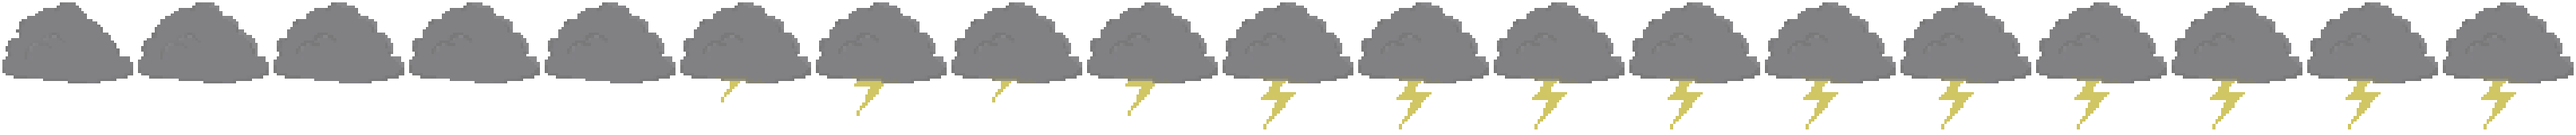
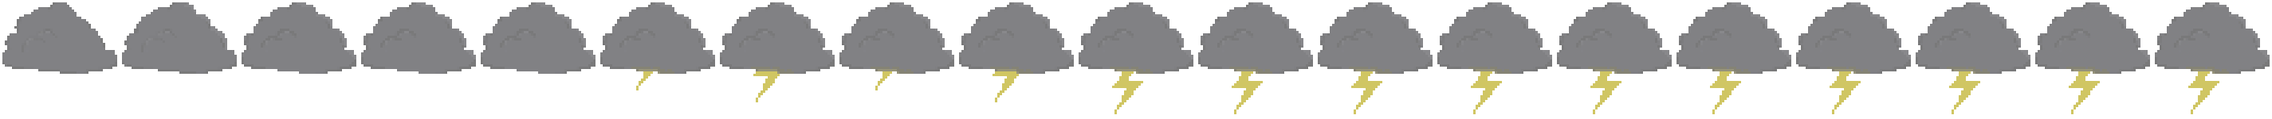
Animación win corregida, Skins win, loose y fly implementadas, nubes mejoradas y actualizadas, gavilán cambio de posición

diff --git a/core/src/com/mygdx/menudemo/level.java b/core/src/com/mygdx/menudemo/level.java
@@ -104,7 +104,6 @@ public class level extends ScreenAdapter {
 
     private Rectangle speedBarRectangle;
     private float speedBarChunkSize = DEFAULT_CHUNCK_SIZE;
-    private Stage stageWin;
     private Stage stageGameOver;
     private Texture gameOverPanelTexture;
     private Texture yesButtonTexture;
@@ -158,7 +157,7 @@ public class level extends ScreenAdapter {
     private TextureRegion winningKiiw;
     private TextureRegion loosingKiiw;
     private float winingKiiwX = WORLD_WIDTH/4;
-    private float winingKiiwY = WORLD_HEIGHT/2;
+    private float winingKiiwY;
     private Animation loosingAnimation;
     private float looseKiiwX = 20;
     private boolean finish = false;
@@ -211,9 +210,35 @@ public class level extends ScreenAdapter {
         if (LEVEL == 4){
             bgImagesNumber = 3;
             bossLevel = true;
-            kiiwTexture = menuDemo.getAssetManager().get("level4/FlyingKiwi.png");
-            kiiwWinningTexture = menuDemo.getAssetManager().get("defaultLevels/WinningKiwi.png");
-            kiiwLoosingTexture = menuDemo.getAssetManager().get("defaultLevels/LosingKiwi.png");
+            if(skin.compareTo("default") == 0){
+                kiiwTexture = menuDemo.getAssetManager().get("level4/FlyingKiwi.png");
+                kiiwWinningTexture = menuDemo.getAssetManager().get("defaultLevels/WinningKiwi.png");
+                kiiwLoosingTexture = menuDemo.getAssetManager().get("defaultLevels/LosingKiwi.png");
+            }else if(skin.compareTo("party") == 0){
+                kiiwTexture = menuDemo.getAssetManager().get("level4/FlyingPartyHatKiwi.png");
+                kiiwWinningTexture = menuDemo.getAssetManager().get("defaultLevels/WinningPartyHatKiwi.png");
+                kiiwLoosingTexture = menuDemo.getAssetManager().get("defaultLevels/LosingPartyHatKiwi.png");
+            }else if(skin.compareTo("hat") == 0){
+                kiiwTexture = menuDemo.getAssetManager().get("level4/FlyingTopHatKiwi.png");
+                kiiwWinningTexture = menuDemo.getAssetManager().get("defaultLevels/WinningTopHatKiwi.png");
+                kiiwLoosingTexture = menuDemo.getAssetManager().get("defaultLevels/LosingTopHatKiwi.png");
+            }else if(skin.compareTo("tie") == 0){
+                kiiwTexture = menuDemo.getAssetManager().get("level4/FlyingTieKiwi.png");
+                kiiwWinningTexture = menuDemo.getAssetManager().get("defaultLevels/WinningTieKiwi.png");
+                kiiwLoosingTexture = menuDemo.getAssetManager().get("defaultLevels/LosingTieKiwi.png");
+            }else if(skin.compareTo("crown") == 0){
+                kiiwTexture = menuDemo.getAssetManager().get("level4/FlyingCrownKiwi.png");
+                kiiwWinningTexture = menuDemo.getAssetManager().get("defaultLevels/WinningCrownKiwi.png");
+                kiiwLoosingTexture = menuDemo.getAssetManager().get("defaultLevels/LosingCrownKiwi.png");
+            }else if(skin.compareTo("hulk") == 0){
+                kiiwTexture = menuDemo.getAssetManager().get("level4/FlyingHulkKiwi.png");
+                kiiwWinningTexture = menuDemo.getAssetManager().get("defaultLevels/WinningHulkKiwi.png");
+                kiiwLoosingTexture = menuDemo.getAssetManager().get("defaultLevels/LosingHulkKiwi.png");
+            }else if(skin.compareTo("ricardo") == 0){
+                kiiwTexture = menuDemo.getAssetManager().get("level4/FlyingDancingKiwi.png");
+                kiiwWinningTexture = menuDemo.getAssetManager().get("defaultLevels/WinningDancingKiwi.png");
+                kiiwLoosingTexture = menuDemo.getAssetManager().get("defaultLevels/LosingDancingKiwi.png");
+            }
             hawk = new Hawk(hawkTexture);
             actualSpeed = 15;
             //hawk.setPosition(20, WORLD_HEIGHT/2);
@@ -225,28 +250,28 @@ public class level extends ScreenAdapter {
                 kiiwLoosingTexture = menuDemo.getAssetManager().get("defaultLevels/LosingKiwi.png");
             }else if(skin.compareTo("party") == 0){
                 kiiwTexture = menuDemo.getAssetManager().get("defaultLevels/partyKiwi.png");
-                kiiwWinningTexture = menuDemo.getAssetManager().get("defaultLevels/WinningKiwi.png");
-                kiiwLoosingTexture = menuDemo.getAssetManager().get("defaultLevels/LosingKiwi.png");
+                kiiwWinningTexture = menuDemo.getAssetManager().get("defaultLevels/WinningPartyHatKiwi.png");
+                kiiwLoosingTexture = menuDemo.getAssetManager().get("defaultLevels/LosingPartyHatKiwi.png");
             }else if(skin.compareTo("hat") == 0){
                 kiiwTexture = menuDemo.getAssetManager().get("defaultLevels/HatKiwi.png");
-                kiiwWinningTexture = menuDemo.getAssetManager().get("defaultLevels/WinningKiwi.png");
-                kiiwLoosingTexture = menuDemo.getAssetManager().get("defaultLevels/LosingKiwi.png");
+                kiiwWinningTexture = menuDemo.getAssetManager().get("defaultLevels/WinningTopHatKiwi.png");
+                kiiwLoosingTexture = menuDemo.getAssetManager().get("defaultLevels/LosingTopHatKiwi.png");
             }else if(skin.compareTo("tie") == 0){
                 kiiwTexture = menuDemo.getAssetManager().get("defaultLevels/TieKiwi.png");
-                kiiwWinningTexture = menuDemo.getAssetManager().get("defaultLevels/WinningKiwi.png");
-                kiiwLoosingTexture = menuDemo.getAssetManager().get("defaultLevels/LosingKiwi.png");
+                kiiwWinningTexture = menuDemo.getAssetManager().get("defaultLevels/WinningTieKiwi.png");
+                kiiwLoosingTexture = menuDemo.getAssetManager().get("defaultLevels/LosingTieKiwi.png");
             }else if(skin.compareTo("crown") == 0){
                 kiiwTexture = menuDemo.getAssetManager().get("defaultLevels/CrownKiwi.png");
-                kiiwWinningTexture = menuDemo.getAssetManager().get("defaultLevels/WinningKiwi.png");
-                kiiwLoosingTexture = menuDemo.getAssetManager().get("defaultLevels/LosingKiwi.png");
+                kiiwWinningTexture = menuDemo.getAssetManager().get("defaultLevels/WinningCrownKiwi.png");
+                kiiwLoosingTexture = menuDemo.getAssetManager().get("defaultLevels/LosingCrownKiwi.png");
             }else if(skin.compareTo("hulk") == 0){
                 kiiwTexture = menuDemo.getAssetManager().get("defaultLevels/HulkKiwi.png");
-                kiiwWinningTexture = menuDemo.getAssetManager().get("defaultLevels/WinningKiwi.png");
-                kiiwLoosingTexture = menuDemo.getAssetManager().get("defaultLevels/LosingKiwi.png");
+                kiiwWinningTexture = menuDemo.getAssetManager().get("defaultLevels/WinningHulkKiwi.png");
+                kiiwLoosingTexture = menuDemo.getAssetManager().get("defaultLevels/LosingHulkKiwi.png");
             }else if(skin.compareTo("ricardo") == 0){
                 kiiwTexture = menuDemo.getAssetManager().get("defaultLevels/ricardoKiwi.png");
-                kiiwWinningTexture = menuDemo.getAssetManager().get("defaultLevels/WinningKiwi.png");
-                kiiwLoosingTexture = menuDemo.getAssetManager().get("defaultLevels/LosingKiwi.png");
+                kiiwWinningTexture = menuDemo.getAssetManager().get("defaultLevels/WinningDancingKiwi.png");
+                kiiwLoosingTexture = menuDemo.getAssetManager().get("defaultLevels/LosingDancingKiwi.png");
             }
 
         }
@@ -428,14 +453,14 @@ public class level extends ScreenAdapter {
         stageSettings.addActor(musicSlider);
         stageSettings.addActor(retur);
 
-        stageWin = new Stage(viewportHUD);
-
-        stageTutorial = new Stage(viewportHUD);
-        obstaclesTutorialTexture = menuDemo.getAssetManager().get("level1/obstacles.png");
-        speedTutorialTexture = menuDemo.getAssetManager().get("level1/speed.png");
-        timeTutorialTexture = menuDemo.getAssetManager().get("level1/time.png");
-        coinsTutorialTexture = menuDemo.getAssetManager().get("level1/coins.png");
-        updateTutorial(0);
+        if(LEVEL==1) {
+            stageTutorial = new Stage(viewportHUD);
+            obstaclesTutorialTexture = menuDemo.getAssetManager().get("level1/obstacles.png");
+            speedTutorialTexture = menuDemo.getAssetManager().get("level1/speed.png");
+            timeTutorialTexture = menuDemo.getAssetManager().get("level1/time.png");
+            coinsTutorialTexture = menuDemo.getAssetManager().get("level1/coins.png");
+            updateTutorial(0);
+        }
 
         stageBegin = new Stage(viewportHUD);
         beginPanelTexture = menuDemo.getAssetManager().get("level"+LEVEL+"/panel.png");
@@ -764,7 +789,6 @@ public class level extends ScreenAdapter {
             animationTimer += delta;
             stage.act();
             updateKiiwWinAnimation();
-            updtaeKiiwLooseAnimation();
         }
         clearScreen();
         updateVolume();
@@ -779,13 +803,10 @@ public class level extends ScreenAdapter {
     }
 
     private void updateKiiwWinAnimation() {
-        winingKiiwX += 4;
+        winingKiiwX += 3;
         winingKiiwY += 0.7;
     }
 
-    private void updtaeKiiwLooseAnimation() {
-       looseKiiwX -= 2;
-    }
 
     private void updateVolume() {
         music.setVolume(musicVolume);
@@ -801,6 +822,7 @@ public class level extends ScreenAdapter {
             winEffect.play();
             state = STATE.WIN;
             finish = true;
+            winingKiiwY = kiiw.getY();
         }
     }
 
@@ -1168,55 +1190,59 @@ public class level extends ScreenAdapter {
         }
     }
 
-    private void createNewObstacle(){
+    private void createNewObstacle() {
         Random rnd = new Random();
         int RandomPad = rnd.nextInt(5);
-        int obstacleWidth=168;
+        int obstacleWidth = 168;
         int obstacleHeight = 107;
         int obstacleType = rnd.nextInt(3);
         boolean isGrass = false;
-        switch (obstacleType){
+        switch (obstacleType) {
             case 0:
-                obstacleTexture = new Texture(Gdx.files.internal("level"+LEVEL+"/roca.png"));
-                if(bossLevel){
-                    obstacleWidth = 168;
-                    obstacleHeight = 107;
+                obstacleTexture = new Texture(Gdx.files.internal("level" + LEVEL + "/roca.png"));
+                if (bossLevel) {
+                    obstacleWidth = 150;
+                    obstacleHeight = 150;
                 }
                 break;
             case 1:
-                obstacleTexture = new Texture(Gdx.files.internal("level"+LEVEL+"/arbol.png"));
-                if(LEVEL==1) {
+                obstacleTexture = new Texture(Gdx.files.internal("level" + LEVEL + "/arbol.png"));
+                if (LEVEL == 1) {
                     obstacleWidth = 212;
                     obstacleHeight = 272;
-                }else if(LEVEL == 2) {
+                } else if (LEVEL == 2) {
                     obstacleWidth = 137;
                     obstacleHeight = 265;
-                }else if(LEVEL == 3){
+                } else if (LEVEL == 3) {
                     obstacleWidth = 482;
-                    obstacleHeight=258;
-                }else{
-                    obstacleWidth = 170;
-                    obstacleHeight = 170;
+                    obstacleHeight = 258;
+                } else {
+                    obstacleWidth = 150;
+                    obstacleHeight = 150;
                 }
                 break;
             case 2:
-                obstacleTexture = new Texture(Gdx.files.internal("level"+LEVEL+"/pasto.png"));
-                if(bossLevel){
-                    obstacleWidth = 170;
-                    obstacleHeight = 102;
-                }else{
+                obstacleTexture = new Texture(Gdx.files.internal("level" + LEVEL + "/pasto.png"));
+                if (bossLevel) {
+                    obstacleWidth = 149;
+                    obstacleHeight = 89;
+                } else {
                     obstacleWidth = 118;
-                    obstacleHeight=171;
+                    obstacleHeight = 171;
                 }
-                isGrass=true;
+                isGrass = true;
                 break;
         }
         Obstacle newObstacle = new Obstacle(bossLevel, isGrass, obstacleTexture, obstacleWidth, obstacleHeight);
         float y = PADS[RandomPad];
         if(LEVEL == 4){
-            newObstacle.setPosition(WORLD_WIDTH + Obstacle.WIDTH,  y-newObstacle.WIDTH);
-        }else{
-            newObstacle.setPosition(WORLD_WIDTH + Obstacle.WIDTH,  y + newObstacle.WIDTH/2);
+            if(newObstacle.isGrass()){
+                newObstacle.setPosition(WORLD_WIDTH + Obstacle.WIDTH,  y+newObstacle.WIDTH/2);
+            }else {
+                newObstacle.setPosition(WORLD_WIDTH + Obstacle.WIDTH,  y-newObstacle.WIDTH/2);
+            }
+        }else {
+            newObstacle.setPosition(WORLD_WIDTH + Obstacle.WIDTH, y + newObstacle.WIDTH / 2);
         }
         obstacles.add(newObstacle);
     }

diff --git a/core/src/com/mygdx/menudemo/LoadingScreen.java b/core/src/com/mygdx/menudemo/LoadingScreen.java
@@ -2,6 +2,7 @@ package com.mygdx.menudemo;
 
 import com.badlogic.gdx.Game;
 import com.badlogic.gdx.Gdx;
+import com.badlogic.gdx.Preferences;
 import com.badlogic.gdx.ScreenAdapter;
 import com.badlogic.gdx.audio.Music;
 import com.badlogic.gdx.graphics.Camera;
@@ -19,17 +20,21 @@ public class LoadingScreen extends ScreenAdapter {
     private static final float WORLD_HEIGHT = 640;
     private static final float PROGRESS_BAR_WIDTH = 100;
     private static final float PROGRESS_BAR_HEIGHT = 25;
+    private static final String ACTUAL_SKIN = "default";
+    private final Preferences preferencias;
     private ShapeRenderer shapeRenderer;
     private Viewport viewport;
     private Camera camera;
     private float progress = 0;
     private final MenuDemo menuDemo;
     private final int LEVEL;
+    private String skin;
     //private final Game game;
 
     public LoadingScreen(MenuDemo menuDemo, int level) {
         this.menuDemo = menuDemo;
         this.LEVEL = level;
+        this.preferencias = menuDemo.getPreferences();
     }
 
     @Override
@@ -39,6 +44,7 @@ public class LoadingScreen extends ScreenAdapter {
 
     @Override
     public void show() {
+        loadPreferences();
         camera = new OrthographicCamera();
         camera.position.set(WORLD_WIDTH / 2, WORLD_HEIGHT / 2, 0);
         camera.update();
@@ -50,13 +56,15 @@ public class LoadingScreen extends ScreenAdapter {
         menuDemo.getAssetManager().load("defaultLevels/KiiwLose.mp3", Music.class);
         menuDemo.getAssetManager().load("defaultLevels/KiiwWin.mp3", Music.class);
         menuDemo.getAssetManager().load("defaultLevels/Kiwhine.mp3", Music.class);
-        menuDemo.getAssetManager().load("defaultLevels/RunningKiwi.png", Texture.class);
-        menuDemo.getAssetManager().load("defaultLevels/CrownKiwi.png", Texture.class);
-        menuDemo.getAssetManager().load("defaultLevels/HatKiwi.png", Texture.class);
-        menuDemo.getAssetManager().load("defaultLevels/HulkKiwi.png", Texture.class);
-        menuDemo.getAssetManager().load("defaultLevels/partyKiwi.png", Texture.class);
-        menuDemo.getAssetManager().load("defaultLevels/TieKiwi.png", Texture.class);
-        menuDemo.getAssetManager().load("defaultLevels/ricardoKiwi.png", Texture.class);
+        if(LEVEL!=4) {
+            menuDemo.getAssetManager().load("defaultLevels/RunningKiwi.png", Texture.class);
+            menuDemo.getAssetManager().load("defaultLevels/CrownKiwi.png", Texture.class);
+            menuDemo.getAssetManager().load("defaultLevels/HatKiwi.png", Texture.class);
+            menuDemo.getAssetManager().load("defaultLevels/HulkKiwi.png", Texture.class);
+            menuDemo.getAssetManager().load("defaultLevels/partyKiwi.png", Texture.class);
+            menuDemo.getAssetManager().load("defaultLevels/TieKiwi.png", Texture.class);
+            menuDemo.getAssetManager().load("defaultLevels/ricardoKiwi.png", Texture.class);
+        }
         menuDemo.getAssetManager().load("defaultLevels/pausa.png", Texture.class);
         menuDemo.getAssetManager().load("defaultLevels/Barra.png", Texture.class);
         menuDemo.getAssetManager().load("defaultLevels/lifes0.png", Texture.class);
@@ -81,30 +89,57 @@ public class LoadingScreen extends ScreenAdapter {
         menuDemo.getAssetManager().load("defaultLevels/yesPressed.png", Texture.class);
         menuDemo.getAssetManager().load("defaultLevels/no.png", Texture.class);
         menuDemo.getAssetManager().load("defaultLevels/noPressed.png", Texture.class);
-        menuDemo.getAssetManager().load("level4/FlyingKiwi.png", Texture.class);
+        if(LEVEL == 4) {
+            menuDemo.getAssetManager().load("level4/FlyingKiwi.png", Texture.class);
+            menuDemo.getAssetManager().load("level4/FlyingPartyHatKiwi.png", Texture.class);
+            menuDemo.getAssetManager().load("level4/FlyingTopHatKiwi.png", Texture.class);
+            menuDemo.getAssetManager().load("level4/FlyingTieKiwi.png", Texture.class);
+            menuDemo.getAssetManager().load("level4/FlyingCrownKiwi.png", Texture.class);
+            menuDemo.getAssetManager().load("level4/FlyingHulkKiwi.png", Texture.class);
+            menuDemo.getAssetManager().load("level4/FlyingDancingKiwi.png", Texture.class);
+
+        }
         menuDemo.getAssetManager().load("defaultLevels/ok.png", Texture.class);
         menuDemo.getAssetManager().load("level"+LEVEL+"/panel.png", Texture.class);
         menuDemo.getAssetManager().load("defaultLevels/okPressed.png", Texture.class);
-        menuDemo.getAssetManager().load("level1/next.png", Texture.class);
-        menuDemo.getAssetManager().load("level1/nextPressed.png", Texture.class);
-        menuDemo.getAssetManager().load("level1/obstacles.png", Texture.class);
-        menuDemo.getAssetManager().load("level1/got.png", Texture.class);
-        menuDemo.getAssetManager().load("level1/gotPressed.png", Texture.class);
-        menuDemo.getAssetManager().load("level1/back.png", Texture.class);
-        menuDemo.getAssetManager().load("level1/backPressed.png", Texture.class);
-        menuDemo.getAssetManager().load("level1/speed.png", Texture.class);
-        menuDemo.getAssetManager().load("level1/time.png", Texture.class);
-        menuDemo.getAssetManager().load("level1/coins.png", Texture.class);
         menuDemo.getAssetManager().load("level4/hawk.png", Texture.class);
+        if(LEVEL == 1) {
+            menuDemo.getAssetManager().load("level1/next.png", Texture.class);
+            menuDemo.getAssetManager().load("level1/nextPressed.png", Texture.class);
+            menuDemo.getAssetManager().load("level1/obstacles.png", Texture.class);
+            menuDemo.getAssetManager().load("level1/got.png", Texture.class);
+            menuDemo.getAssetManager().load("level1/gotPressed.png", Texture.class);
+            menuDemo.getAssetManager().load("level1/back.png", Texture.class);
+            menuDemo.getAssetManager().load("level1/backPressed.png", Texture.class);
+            menuDemo.getAssetManager().load("level1/speed.png", Texture.class);
+            menuDemo.getAssetManager().load("level1/time.png", Texture.class);
+            menuDemo.getAssetManager().load("level1/coins.png", Texture.class);
+            menuDemo.getAssetManager().load("defaultLevels/panelSkip.png", Texture.class);
+            menuDemo.getAssetManager().load("defaultLevels/skipPress.png", Texture.class);
+        }
         menuDemo.getAssetManager().load("defaultLevels/settingsPanel.png", Texture.class);
         menuDemo.getAssetManager().load("defaultLevels/pausaPress.png", Texture.class);
         menuDemo.getAssetManager().load("defaultLevels/flecha.png", Texture.class);
         menuDemo.getAssetManager().load("defaultLevels/flechaPress.png", Texture.class);
         menuDemo.getAssetManager().load("defaultLevels/WinningKiwi.png", Texture.class);
+        menuDemo.getAssetManager().load("defaultLevels/WinningCrownKiwi.png", Texture.class);
+        menuDemo.getAssetManager().load("defaultLevels/WinningDancingKiwi.png", Texture.class);
+        menuDemo.getAssetManager().load("defaultLevels/WinningHulkKiwi.png", Texture.class);
+        menuDemo.getAssetManager().load("defaultLevels/WinningPartyHatKiwi.png", Texture.class);
+        menuDemo.getAssetManager().load("defaultLevels/WinningTieKiwi.png", Texture.class);
+        menuDemo.getAssetManager().load("defaultLevels/WinningTopHatKiwi.png", Texture.class);
         menuDemo.getAssetManager().load("defaultLevels/LosingKiwi.png", Texture.class);
+        menuDemo.getAssetManager().load("defaultLevels/LosingCrownKiwi.png", Texture.class);
+        menuDemo.getAssetManager().load("defaultLevels/LosingDancingKiwi.png", Texture.class);
+        menuDemo.getAssetManager().load("defaultLevels/LosingHulkKiwi.png", Texture.class);
+        menuDemo.getAssetManager().load("defaultLevels/LosingPartyHatKiwi.png", Texture.class);
+        menuDemo.getAssetManager().load("defaultLevels/LosingTieKiwi.png", Texture.class);
+        menuDemo.getAssetManager().load("defaultLevels/LosingTopHatKiwi.png", Texture.class);
         menuDemo.getAssetManager().load("defaultLevels/lifesNull.png", Texture.class);
-        menuDemo.getAssetManager().load("defaultLevels/panelSkip.png", Texture.class);
-        menuDemo.getAssetManager().load("defaultLevels/skipPress.png", Texture.class);
+    }
+
+    private void loadPreferences() {
+        skin = preferencias.getString("actualSkin", ACTUAL_SKIN);
     }
 
     @Override

diff --git a/core/src/com/mygdx/menudemo/Obstacle.java b/core/src/com/mygdx/menudemo/Obstacle.java
@@ -14,7 +14,7 @@ public class Obstacle {
     private static final float COLLISION_SQUARE_WIDTH = 50F;
 
     public static final float WIDTH = COLLISION_SQUARE_WIDTH;
-    private static final float FRAME_DURATION = 0.1F;
+    private static final float FRAME_DURATION = 0.07F;
 
     private static int TILE_WIDTH;
     private static  int TILE_HEIGHT;

diff --git a/core/src/com/mygdx/menudemo/Hawk.java b/core/src/com/mygdx/menudemo/Hawk.java
@@ -23,7 +23,7 @@ class Hawk {
 
     public void draw(SpriteBatch batch) {
         hawkTexture = (TextureRegion) animation.getKeyFrame(animationTimer);
-        batch.draw(hawkTexture, 0, 420);
+        batch.draw(hawkTexture, 0, 250);
     }
 
     public void setPosition(float x, float y) {

diff --git a/core/src/com/mygdx/menudemo/ClosetScreen.java b/core/src/com/mygdx/menudemo/ClosetScreen.java
@@ -407,7 +407,7 @@ class ClosetScreen extends ScreenAdapter {
             quitStage.draw();
             Gdx.input.setInputProcessor(quitStage);
         }else{
-            Gdx.input.setInputProcessor(stage);
+            Gdx.input.setInputProcessor(multiplexer);
         }
 
     }
